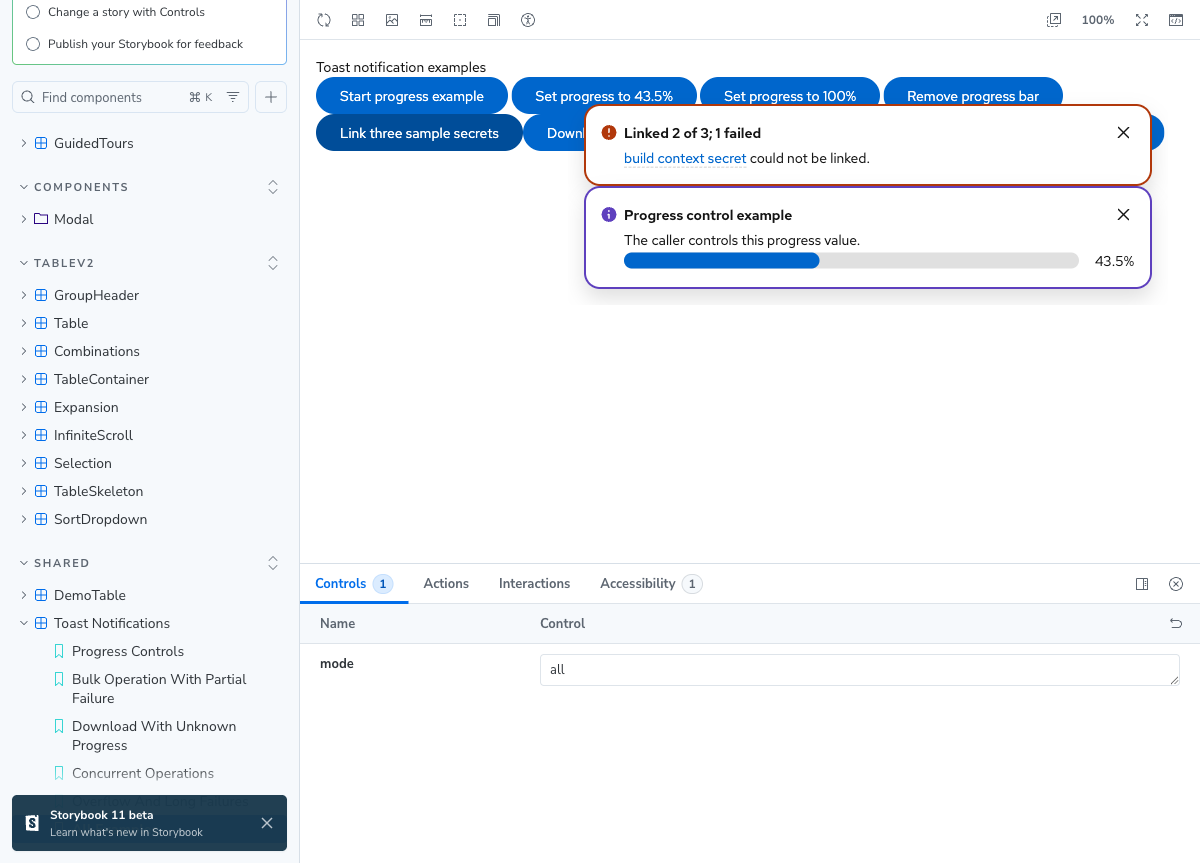
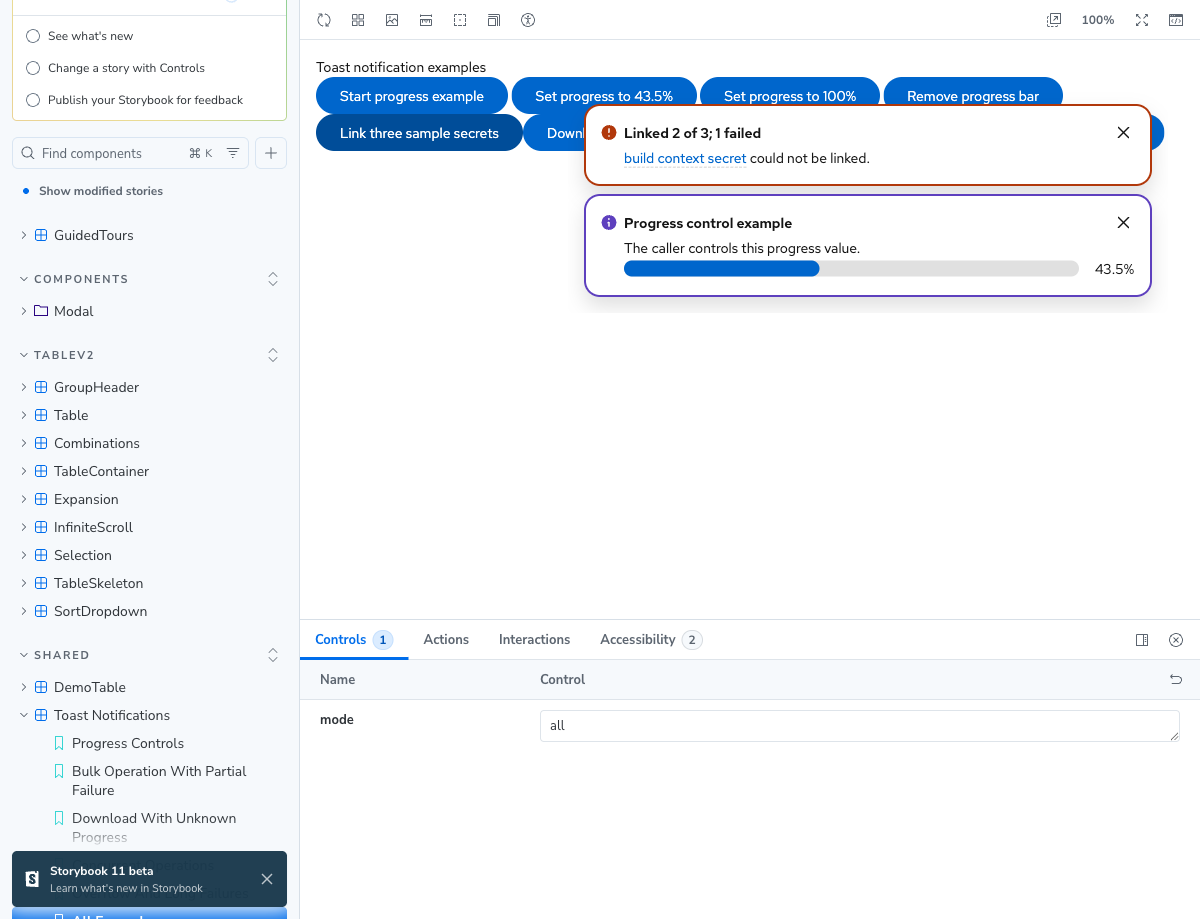
fix: add spacing between toast notifications
Assisted-by: Claude

diff --git a/src/shared/components/toast/__tests__/ToastProvider.spec.tsx b/src/shared/components/toast/__tests__/ToastProvider.spec.tsx
@@ -736,10 +736,12 @@ describe('ToastProvider operation reporting', () => {
 
     const alertGroup = screen.getByRole('list', { name: 'Notifications' });
     const alerts = alertGroup.querySelectorAll('[data-test="toast-alert"]');
+    const alertItems = alertGroup.querySelectorAll('.pf-v6-c-alert-group__item');
     expect(alertGroup).toHaveAttribute('aria-live', 'polite');
     expect(alertGroup).toHaveAttribute('aria-atomic', 'false');
     expect(alertGroup).toHaveClass('toast-alert-group');
     expect(alerts).toHaveLength(30);
+    expect(alertItems).toHaveLength(30);
     expect(alerts[0]).toHaveAttribute('tabindex', '0');
     expect(alerts[29]).toHaveAttribute('tabindex', '0');
     expect(alerts[0]).not.toHaveAttribute('aria-live');

diff --git a/src/shared/components/toast/ToastProvider.tsx b/src/shared/components/toast/ToastProvider.tsx
@@ -135,11 +135,11 @@ export const ToastProvider: React.FC<React.PropsWithChildren> = ({ children }) =
     <ToastContext.Provider value={value}>
       {children}
       <AlertGroup aria-label="Notifications" className="toast-alert-group" isLiveRegion isToast>
-        <React.Suspense fallback={null}>
-          {[...toasts].reverse().map((toast) => (
-            <ToastItem key={toast.id} onRemove={removeToast} toast={toast} />
-          ))}
-        </React.Suspense>
+        {[...toasts].reverse().map((toast) => (
+          <React.Suspense fallback={null} key={toast.id}>
+            <ToastItem onRemove={removeToast} toast={toast} />
+          </React.Suspense>
+        ))}
       </AlertGroup>
     </ToastContext.Provider>
   );
